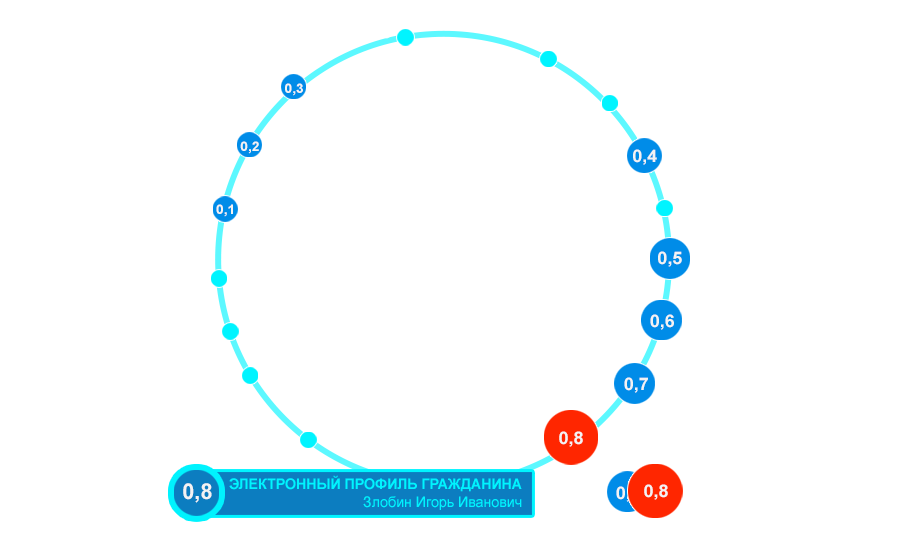
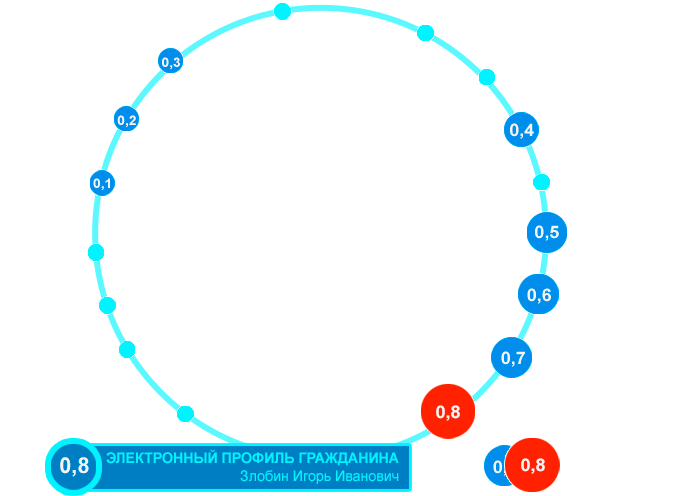
dfghj

diff --git a/compile/css/scene.css b/compile/css/scene.css
@@ -84,12 +84,12 @@
 
 #sceneinfo-diagram img {
   position: absolute;
-  width: 908px;
-  height: 554px;
+  width: 920px;
+  height: 650px;
   top: 50%;
-  margin-top: -277px;
+  margin-top: -330px;
   left: 50%;
-  margin-left: -454px;
+  margin-left: -440px;
 }
 
 #sceneinfo-content section
